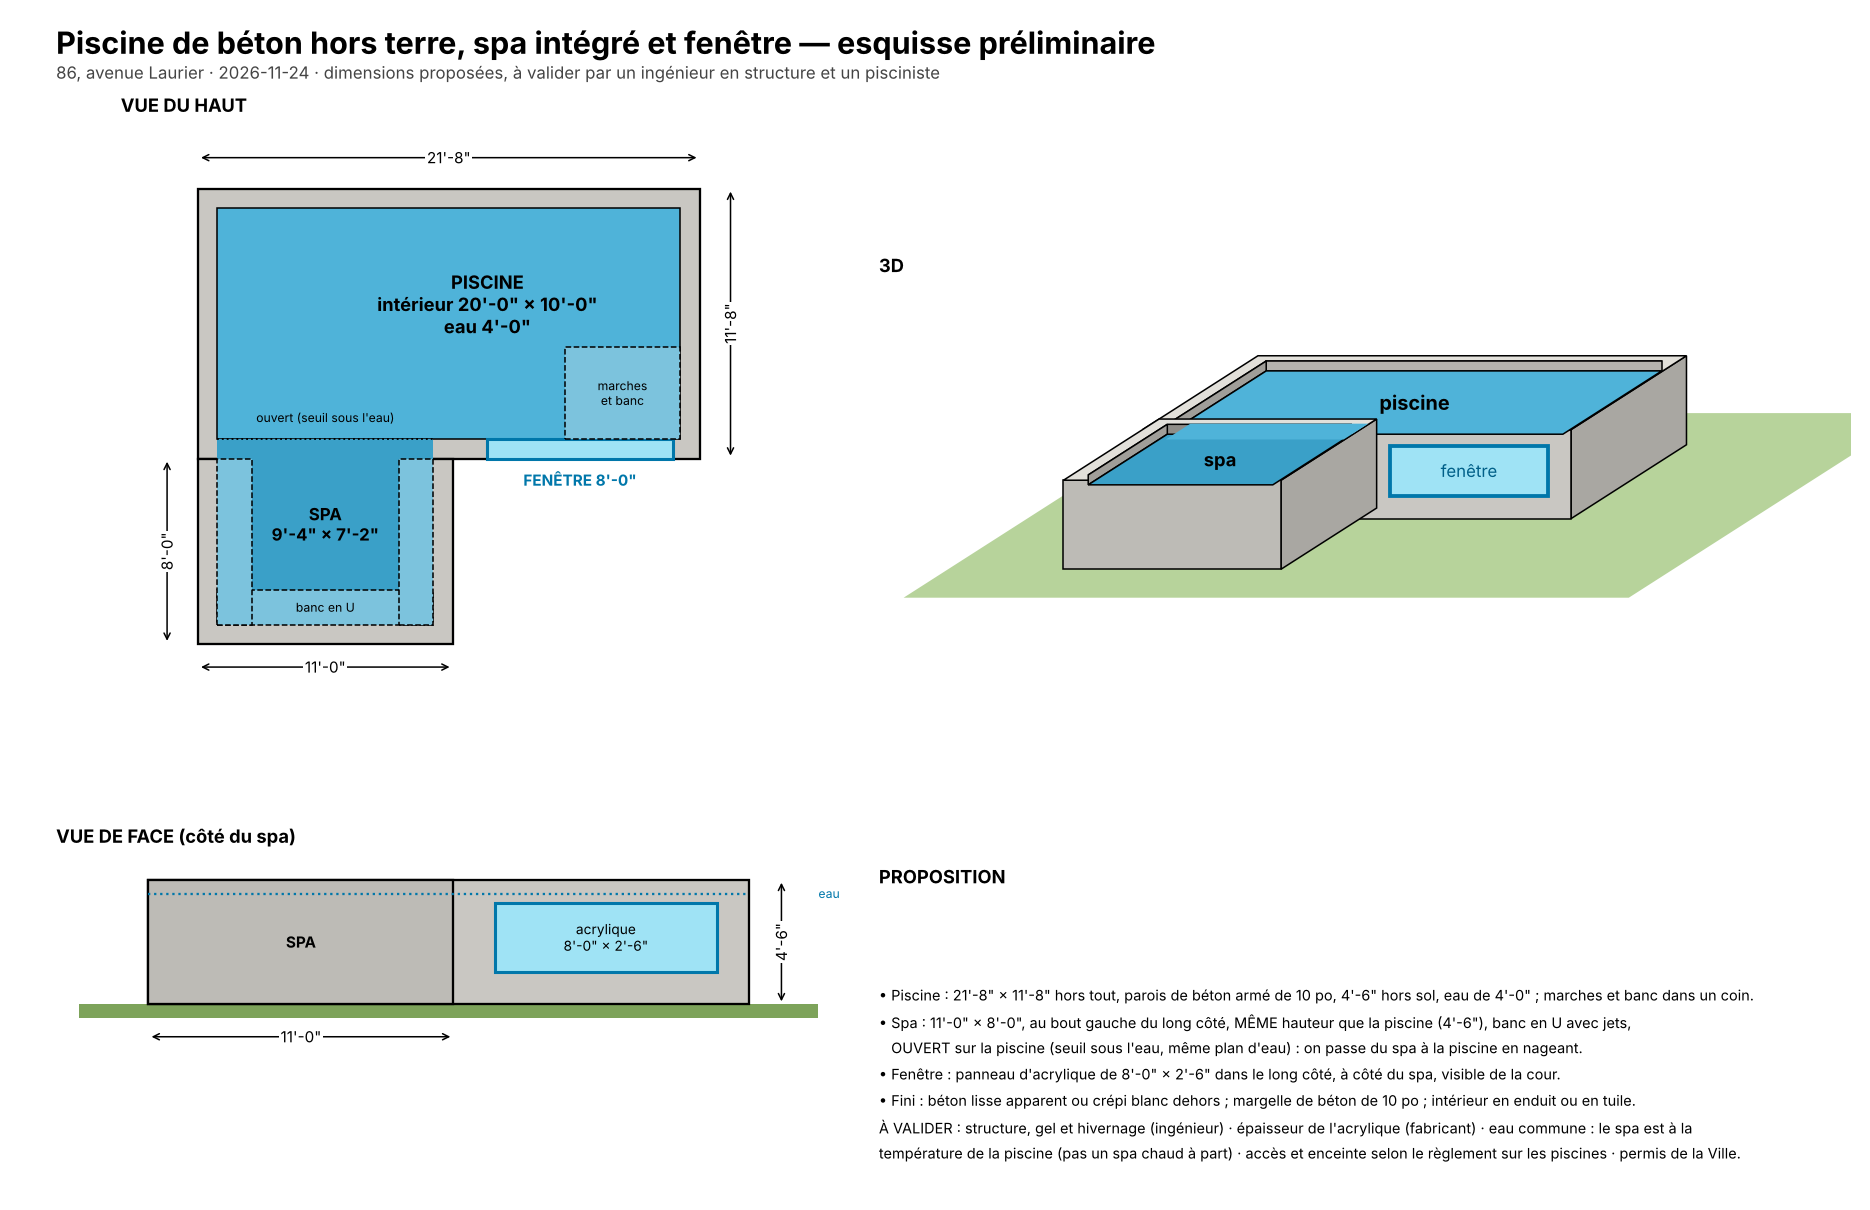
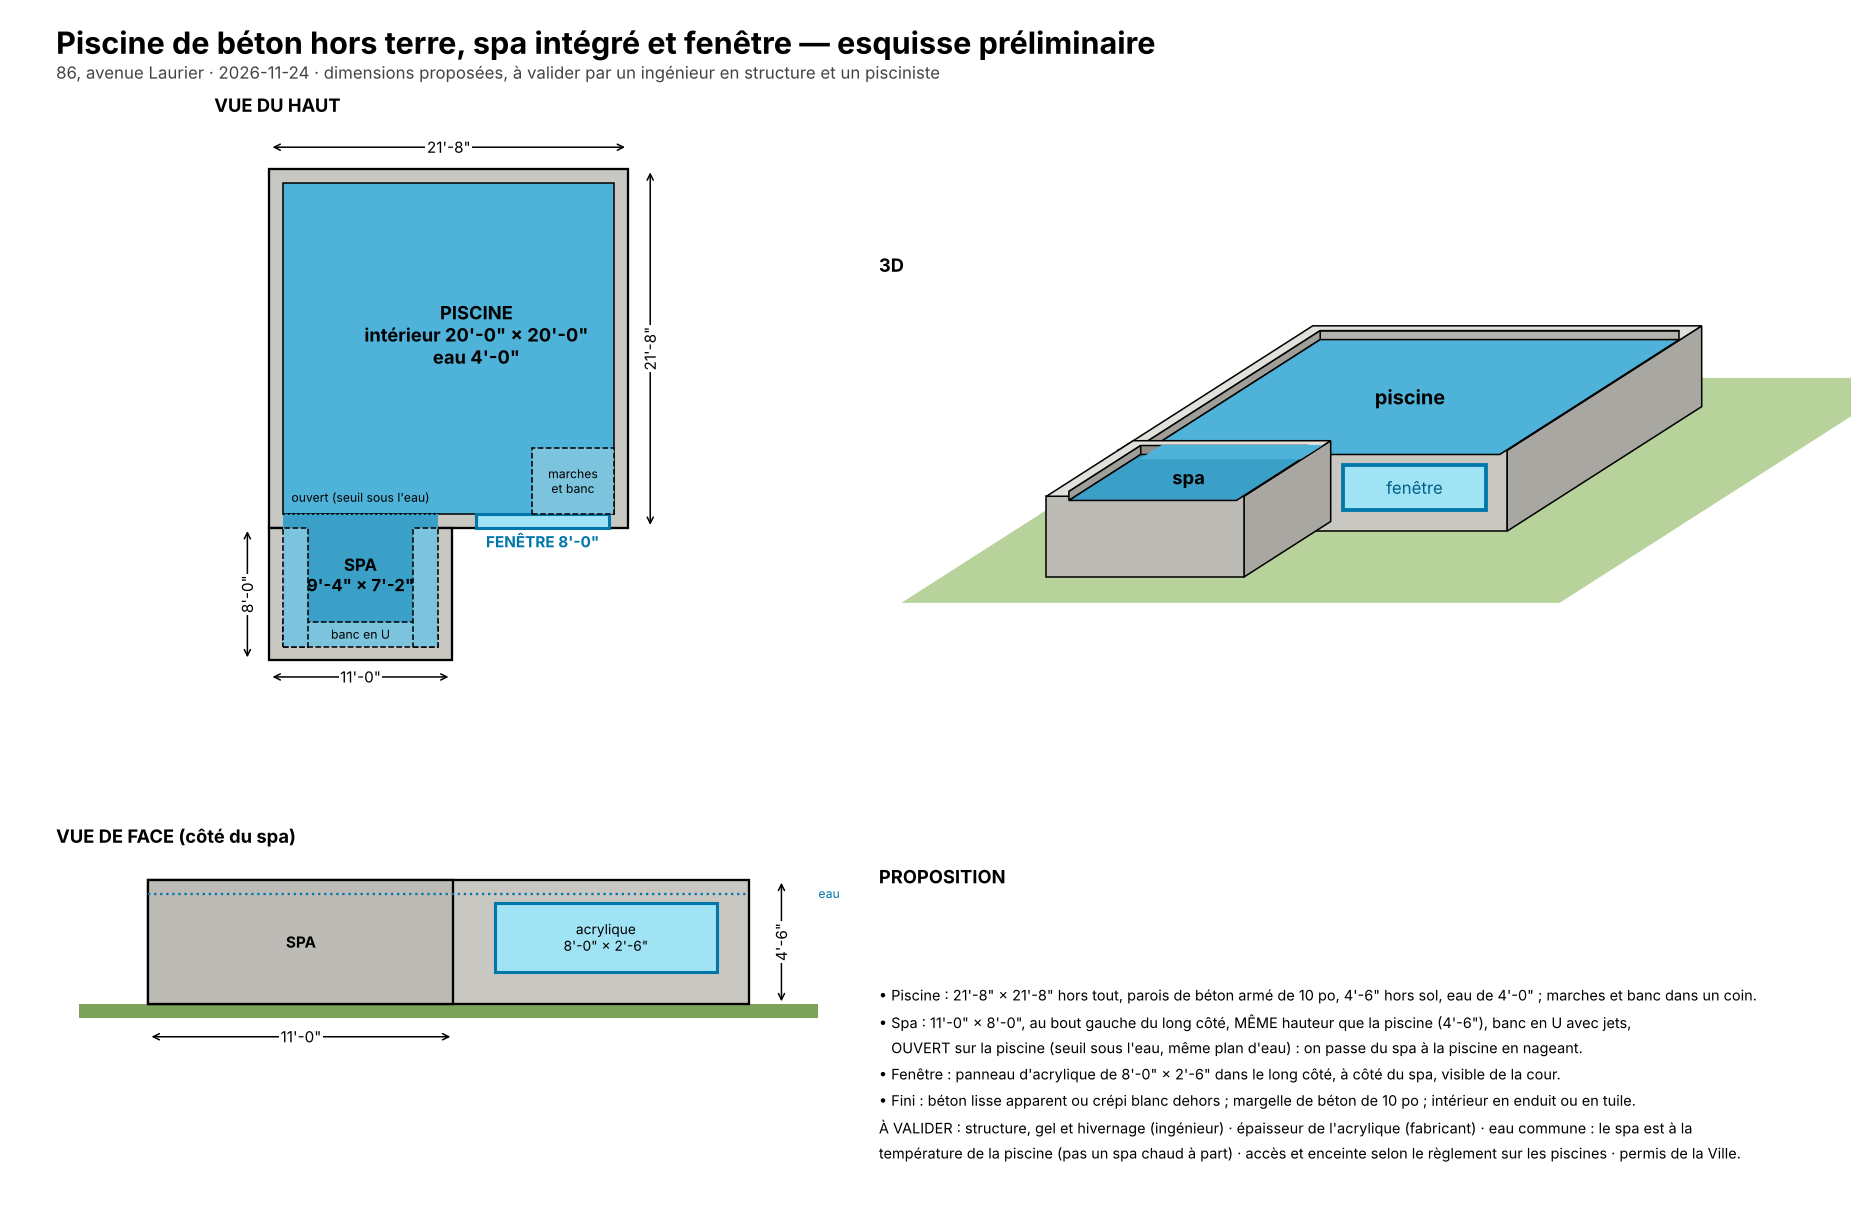
Étude piscine de béton : piscine de 20 pi × 20 pi
Claude-Session: https://claude.ai/code/session_01Cx4tH5HqnUbsFvfqaidtfy

diff --git a/renovation/etudes/piscine_beton/piscine3d.html b/renovation/etudes/piscine_beton/piscine3d.html
@@ -33,7 +33,7 @@ button[aria-pressed="true"] { background: var(--encre); color: #fff; }
   </div>
 </div>
 <div class="pied">
-  <span><b>Piscine</b> 21'-8" × 11'-8"</span><span><b>Spa</b> 11'-0" × 8'-0"</span><span><b>Hauteur</b> 4'-6", eau 4'-0"</span>
+  <span><b>Piscine</b> 20' × 20' d'eau</span><span><b>Spa</b> 11'-0" × 8'-0"</span><span><b>Hauteur</b> 4'-6", eau 4'-0"</span>
   <span><b>Fenêtre</b> 8'-0" × 2'-6"</span><span class="long">Dimensions proposées, à valider par un ingénieur</span>
 </div>
 <script src="https://cdnjs.cloudflare.com/ajax/libs/three.js/r128/three.min.js"></script>
@@ -88,7 +88,7 @@ function B(x0, x1, y0, y1, z0, z1, mat, o = {}) {
     const uv = geo.attributes.uv, n = geo.attributes.normal; for (let i = 0; i < uv.count; i++) {
       const ax = Math.abs(n.getX(i)), ay = Math.abs(n.getY(i)); const su = ax > .5 ? d : w, sv = ay > .5 ? d : h; uv.setXY(i, uv.getX(i) * su / 4, uv.getY(i) * sv / 4); } }
   m.position.set((x0 + x1) / 2, (y0 + y1) / 2, (z0 + z1) / 2); m.castShadow = o.ombre !== false; m.receiveShadow = true; S.add(m); return m; }
-const L = 21.67, P = 11.67, T = .83, H = 4.5, EAU = 4.0, SW = 11, SD = 8, F0 = 12.5, F1 = 20.5, FZ0 = 1.17, FZ1 = 3.67;
+const L = 21.67, P = 21.67, T = .83, H = 4.5, EAU = 4.0, SW = 11, SD = 8, F0 = 12.5, F1 = 20.5, FZ0 = 1.17, FZ1 = 3.67;
 // terrain et dallage
 const gz = new THREE.Mesh(new THREE.PlaneGeometry(400, 400), M.herbe); gz.rotation.x = -Math.PI / 2; gz.receiveShadow = true; S.add(gz);
 for (let i = -1; i < 7; i++) for (let j = 0; j < 4; j++) if (!(i < 3 && j < 2)) B(i * 4 + .04, i * 4 + 3.96, 0, .12, 0 + j * 4 + .04, j * 4 + 3.96, M.dalle, { ombre: false });   // dalles devant la fenêtre
@@ -113,7 +113,7 @@ const surf = [];
 function surface(x0, x1, z0, z1) { const g = new THREE.PlaneGeometry(x1 - x0, z1 - z0, Math.round((x1 - x0) * 2), Math.round((z1 - z0) * 2)); g.rotateX(-Math.PI / 2);
   const m = new THREE.Mesh(g, M.eau); m.position.set((x0 + x1) / 2, EAU, (z0 + z1) / 2); m.receiveShadow = true; S.add(m); surf.push(m); }
 surface(T, L - T, -P + T, 0); surface(T, SW - T, 0, SD - T);
-const led = new THREE.PointLight(0x7fe9ff, .9, 16); led.position.set(14, 2, -5); S.add(led);
+const led = new THREE.PointLight(0x7fe9ff, .9, 16); led.position.set(14, 2, -8); S.add(led);
 // jets du spa (petites bulles)
 const bulles = []; for (let i = 0; i < 46; i++) { const b = new THREE.Mesh(new THREE.SphereGeometry(.05 + Math.random() * .05, 6, 6), new THREE.MeshBasicMaterial({ color: 0xffffff, transparent: true, opacity: .75 }));
   b.userData = { x: 2.6 + Math.random() * 5.8, z: .6 + Math.random() * 4.6, p: Math.random() * 3 }; S.add(b); bulles.push(b); }
@@ -121,7 +121,7 @@ const bulles = []; for (let i = 0; i < 46; i++) { const b = new THREE.Mesh(new T
 B(L + .4, L + 9, 0, .5, -P, 2, M.bois);
 function chaise(x, z) { B(x, x + 2.1, .9, 1.05, z, z + 4.6, M.blanc); B(x, x + 2.1, 1.05, 1.2, z, z + 1.7, M.blanc).rotation.x = -.5;
   for (const [a, c] of [[.1, .3], [1.9, .3], [.1, 4.2], [1.9, 4.2]]) B(x + a, x + a + .1, .5, .9, z + c, z + c + .1, M.noir); }
-chaise(L + 2, -9.5); chaise(L + 5.2, -9.5);
+chaise(L + 2, -14); chaise(L + 5.2, -14);
 function perso(x, z, col, k) { const G = new THREE.Group(), m = new THREE.MeshStandardMaterial({ color: col, roughness: .9 });
   const c = new THREE.Mesh(new THREE.CylinderGeometry(.5, .32, 4.2, 14), m); c.position.y = 2.1;
   const h = new THREE.Mesh(new THREE.SphereGeometry(.4, 14, 12), new THREE.MeshStandardMaterial({ color: 0xe2b592, roughness: .8 })); h.position.y = 4.75;
@@ -130,10 +130,10 @@ perso(15.5, 4.2, 0x2f4858, 1); perso(13.6, 3.4, 0xe2a93f, .66);                 
 for (let x = -14; x < 40; x += 2.2) { const h = new THREE.Mesh(new THREE.SphereGeometry(1.5, 8, 6), M.vert); h.position.set(x, 1.4, -P - 9); h.scale.y = 1.5; h.castShadow = true; S.add(h); }
 function arbre(x, z, h) { const t = new THREE.Mesh(new THREE.CylinderGeometry(.3, .45, h, 8), M.tronc); t.position.set(x, h / 2, z); t.castShadow = true; S.add(t);
   const f = new THREE.Mesh(new THREE.IcosahedronGeometry(h * .5, 1), M.vert); f.position.set(x, h + h * .25, z); f.castShadow = true; S.add(f); }
-arbre(-9, -8, 9); arbre(36, -16, 11); arbre(-12, 14, 8);
+arbre(-9, -8, 9); arbre(38, -26, 11); arbre(-12, 14, 8);
 
 // vues
-const VUES = { "v-cour": [[31, 12, 22], [10, 2.2, -2]], "v-fenetre": [[17.5, 3.6, 14], [16.5, 2.5, -3]], "v-haut": [[10.8, 44, 2], [10.8, 0, -1.9]] };
+const VUES = { "v-cour": [[36, 15, 25], [10, 2.2, -6]], "v-fenetre": [[17.5, 3.6, 14], [16.5, 2.5, -3]], "v-haut": [[10.8, 58, -4], [10.8, 0, -6.9]] };
 let cible = null;
 function aller(id) { cible = { p: new THREE.Vector3(...VUES[id][0]), t: new THREE.Vector3(...VUES[id][1]) };
   for (const b of document.querySelectorAll(".vues button")) b.setAttribute("aria-pressed", b.id === id); }

diff --git a/renovation/etudes/piscine_beton/esquisse.py b/renovation/etudes/piscine_beton/esquisse.py
@@ -6,7 +6,7 @@ from matplotlib.patches import Rectangle
 from mpl_toolkits.mplot3d.art3d import Poly3DCollection
 
 E = 10                       # épaisseur des parois
-PL, PW, PH = 260, 140, 54    # piscine hors tout (21'-8" × 11'-8"), 4'-6" de haut
+PL, PW, PH = 260, 260, 54    # piscine hors tout (21'-8" × 21'-8" : 20' × 20' à l'intérieur), 4'-6" de haut
 SW, SD, SH = 132, 96, PH     # spa : 11'-0" de large depuis le bout gauche, 8'-0" de saillie, même hauteur que la piscine ; ouvert sur la piscine
 FX0, FX1, FZ0, FZ1 = 150, 246, 14, 44      # fenêtre : 8'-0" × 2'-6"
 BET, EAU, VIT, SPA = "#c9c7c2", "#4fb3d9", "#9fe3f5", "#3aa0c8"
@@ -69,7 +69,7 @@ face([(E + 4, 0, PH - 6), (SW - E, 0, PH - 6), (SW - E, 3 * E, PH - 6), (E + 4, 
 c.text(*P(PL / 2, PW / 2, PH - 6), "piscine", ha="center", va="center", fontsize=13, fontweight="bold")
 c.text(*P(SW / 2, -SD / 2 + E, SH - 6), "spa", ha="center", va="center", fontsize=12, fontweight="bold")
 c.text(*P((FX0 + FX1) / 2, 0, (FZ0 + FZ1) / 2), "fenêtre", ha="center", va="center", color="#005f88", fontsize=11)
-c.set_xlim(-160, PL + 170); c.set_ylim(-80, PH + 90)
+c.set_xlim(-160, PL + 170); c.set_ylim(-80, PH + 0.32 * PW + 30); c.set_xlim(-160, PL + 0.5 * PW + 100)
 
 fig.text(0.47, 0.27, "PROPOSITION", fontweight="bold", fontsize=12)
 fig.text(0.47, 0.035, "\n".join([
